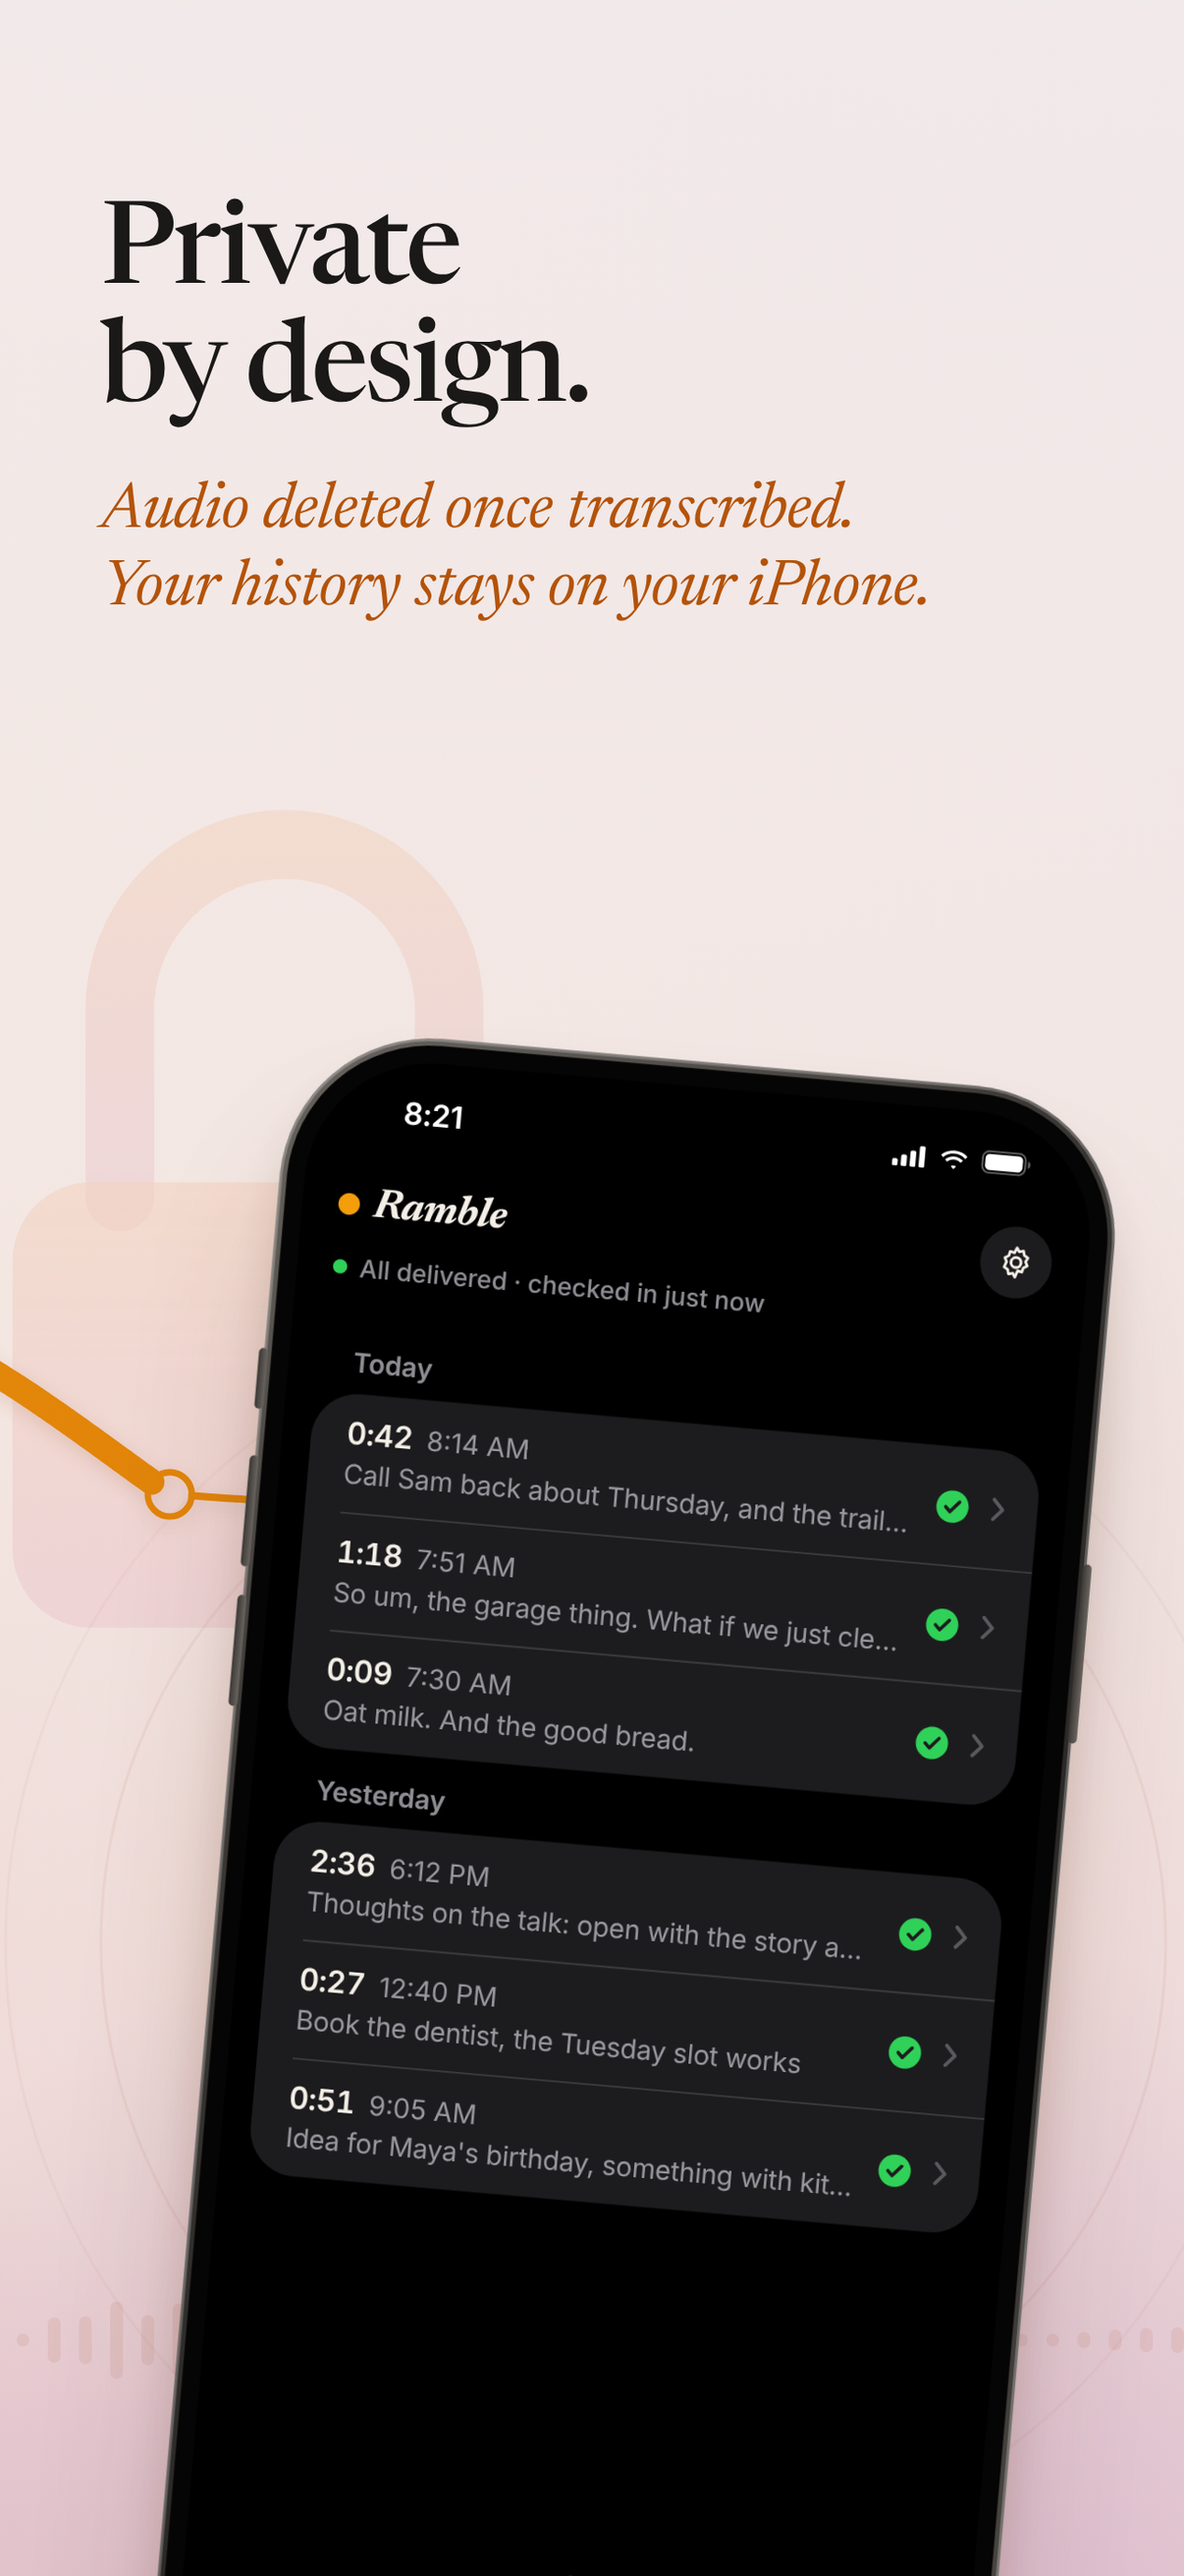
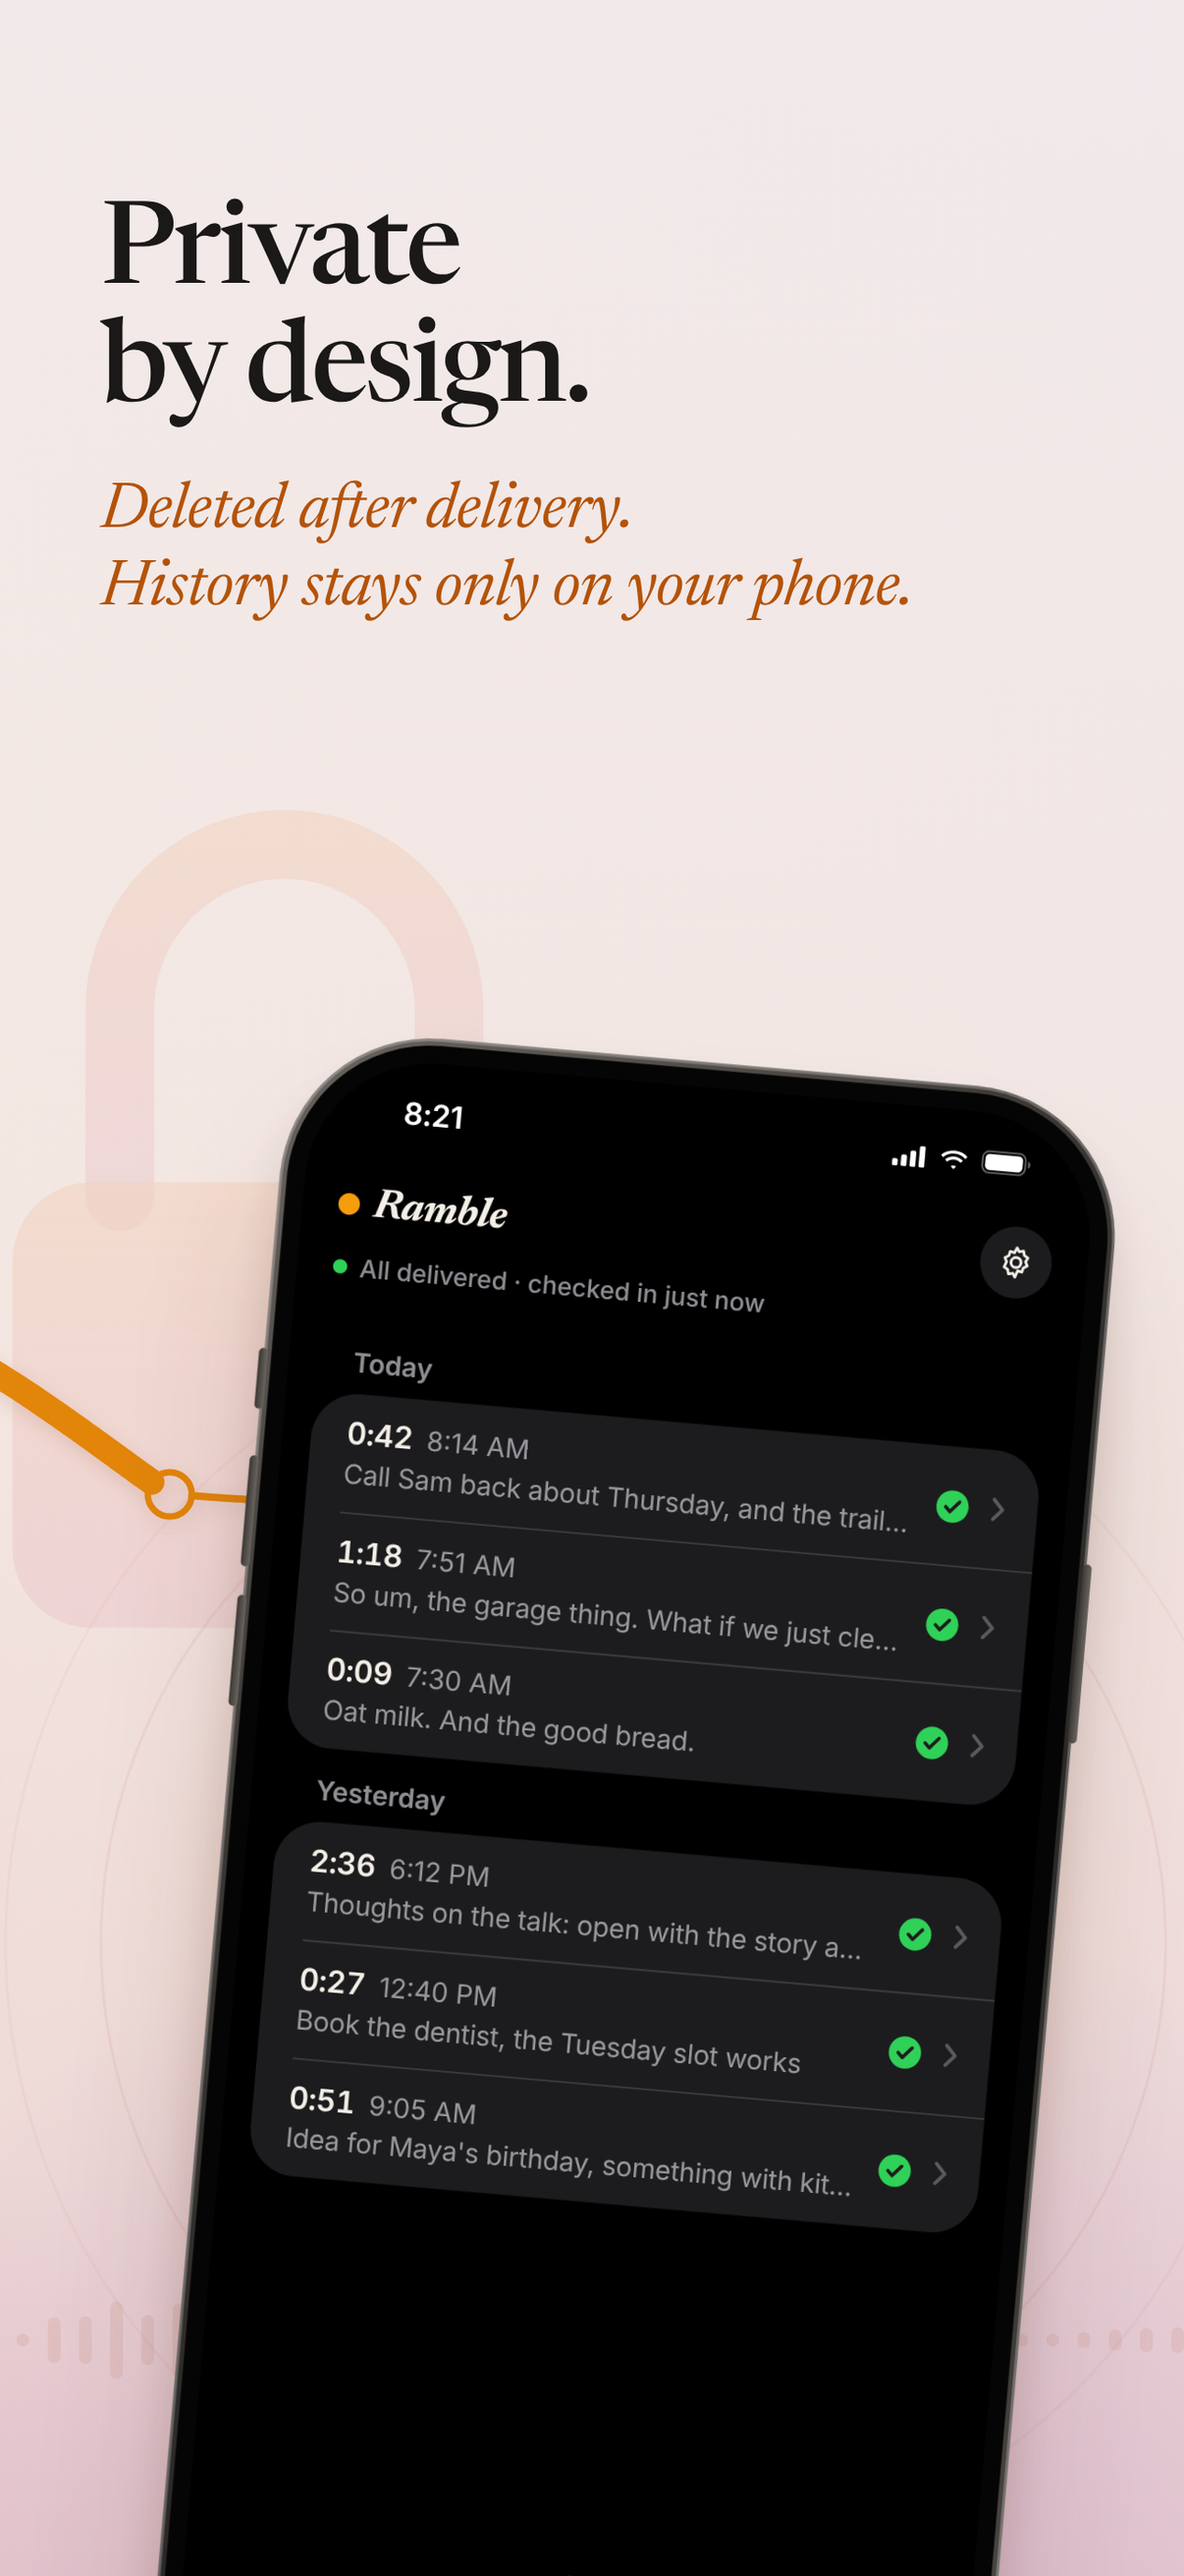
App Store frame 5: Deleted after delivery. History stays only on your phone.
Claude-Session: https://claude.ai/code/session_01TreUG6Gw8YWAnJM4u7RM4H

Changed region(s): [[0.092, 0.1854, 0.767, 0.2471]]

diff --git a/images/appstore/2026-sunset/source/one-line.html b/images/appstore/2026-sunset/source/one-line.html
@@ -491,7 +491,7 @@ body.debug .seam { display: block; }
   </div>
 
   <!-- ============ FRAME 5 ============ -->
-  <div class="copy f5" style="left:5270px"><h1>Private<br>by design.</h1><p>Audio deleted once transcribed.<br>Your history stays on your iPhone.</p></div>
+  <div class="copy f5" style="left:5270px"><h1>Private<br>by design.</h1><p>Deleted after delivery.<br>History stays only on your phone.</p></div>
   <div class="dev" style="left:5896px; top:2109px; --s:1.95; --r:0deg">
     <div class="phone">
       <div class="btn" style="left:-3px; top:180px; width:5px; height:34px"></div>
@@ -559,7 +559,7 @@ if (params.has('ipad')) {
     const [l, t, s] = IPAD[i], d = p.parentElement;
     d.style.left = l + 'px'; d.style.top = t + 'px'; d.style.setProperty('--s', s);
   });
-  document.querySelectorAll('.copy p').forEach(e => { e.innerHTML = e.innerHTML.replace('on your iPhone', 'on your iPad'); });
+  document.querySelectorAll('.copy p').forEach(e => { e.innerHTML = e.innerHTML.replace('on your phone', 'on your iPad'); });
 }
 
 // Status bar, list rows, check icons

diff --git a/docs/app-store.md b/docs/app-store.md
@@ -106,7 +106,7 @@ The iPhone screenshots (1206 × 2622, the size App Store Connect accepted) and t
 2. Leave your phone behind. (No signal needed. It sends later.)
 3. Get it out of your head. (Messy is fine.)
 4. Connect your agent with one message. (No login. No accounts.)
-5. Private by design. (Audio deleted once transcribed. Your history stays on your iPhone.)
+5. Private by design. (Deleted after delivery. History stays only on your phone.)
 
 ## What's New (1.2.0)
 
